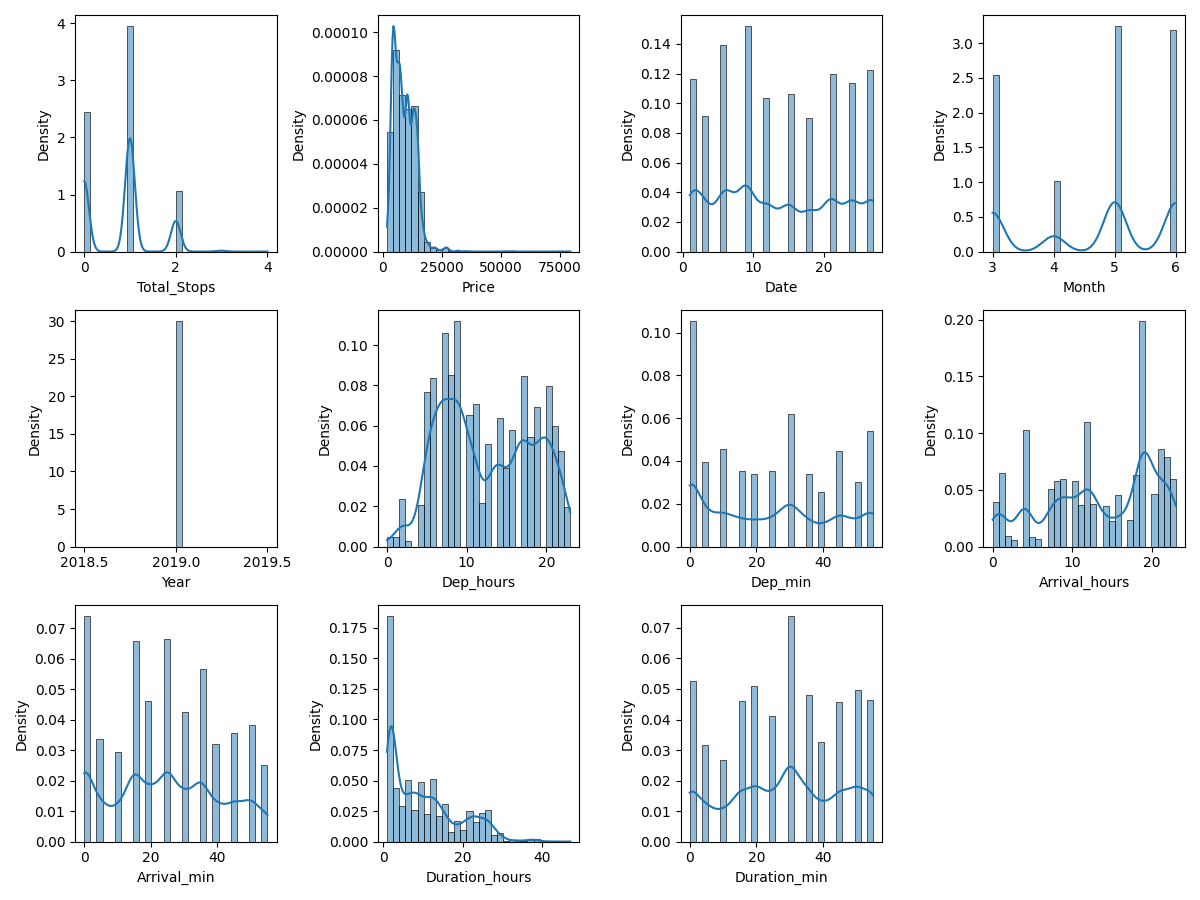
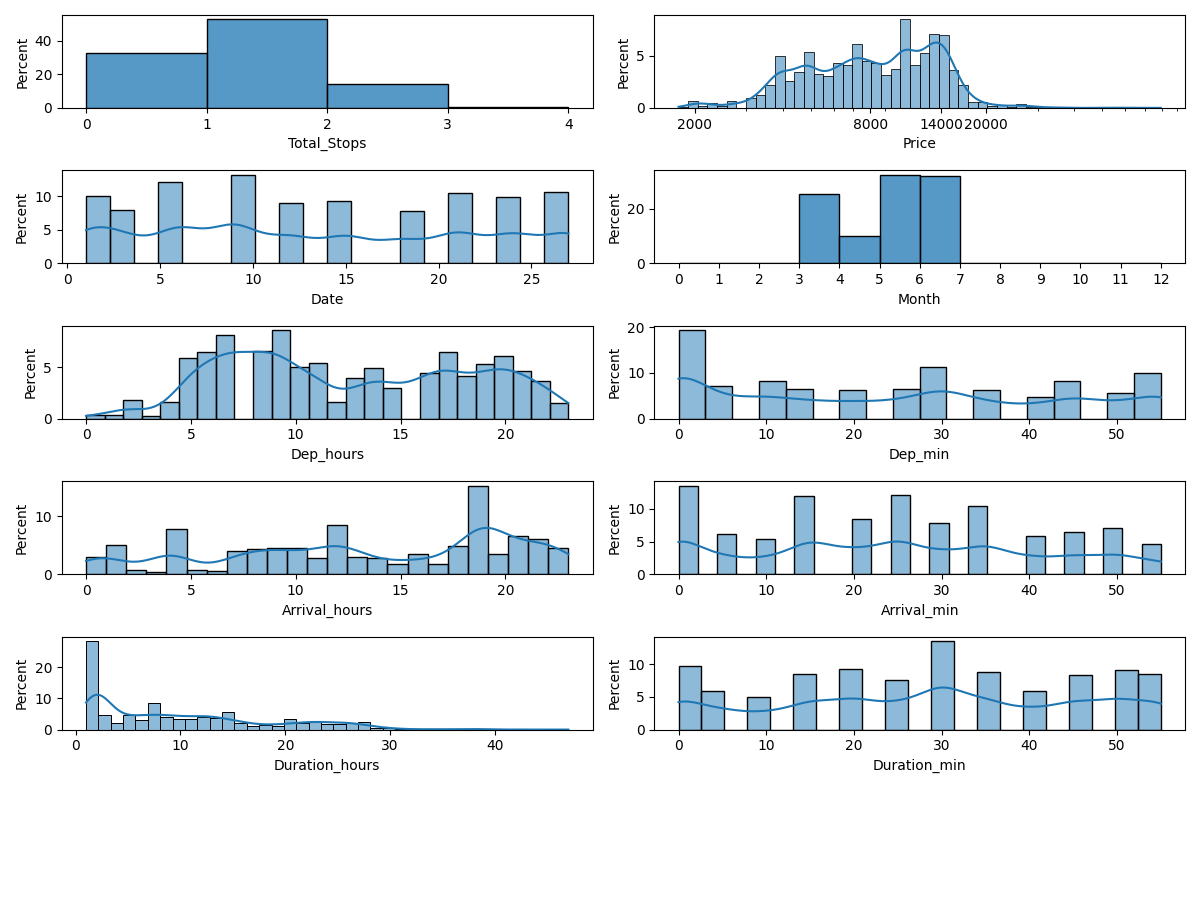
plot_flight_data function upgraded

diff --git a/main_files/data_processing.py b/main_files/data_processing.py
@@ -1,6 +1,7 @@
 from main_files import flight_data
 from main_files import plt
 from main_files import sns
+from main_files import np
 
 print(flight_data.info())
 print(flight_data.head()) #first few rows
@@ -8,16 +9,32 @@ print(flight_data.describe(include='all')) #some info about data
 print(flight_data.isnull().sum()) #no nulls, we're good
 
 def plot_flight_data():
-    flight_data_process_copy = flight_data.copy()
+    flight_data_plot_copy = flight_data.copy()
     # plot only columns which dtype is not 'Object'
-    columns_to_plot = [column for column in flight_data_process_copy.columns if
-                       flight_data_process_copy[column].dtypes != 'O']
+    columns_to_plot = [column for column in flight_data_plot_copy.columns if
+                       flight_data_plot_copy[column].dtypes != 'O' and column != 'Year']
 
-    figure, ax = plt.subplots(3, 4, figsize=(12, 9))
+    figure, ax = plt.subplots(6, 2, figsize=(12, 9))
     ax = ax.flatten()
 
     for i, column in enumerate(columns_to_plot):
-        sns.histplot(flight_data_process_copy[column], kde=True, stat='density', bins=30, ax=ax[i])
+        if column == 'Price':
+            sns.histplot(flight_data_plot_copy[column], kde=True, stat='percent', ax=ax[i], log_scale=True)
+            custom_ticks = np.arange(2000, 26000, 6000)
+            ax[i].set_xticks(custom_ticks)
+            ax[i].set_xticklabels([f'{int(label)}' for label in custom_ticks])
+        elif column == 'Total_Stops':
+            bins = np.arange(0, 5, 1)
+            sns.histplot(flight_data_plot_copy[column], kde=False, stat='percent', ax=ax[i], bins=bins)
+            ax[i].set_xticks(bins)
+            ax[i].set_xticklabels([f'{int(bin)}' for bin in bins])
+        elif column == 'Month':
+            bins = np.arange(0, 13, 1)
+            sns.histplot(flight_data_plot_copy[column], kde=False, stat='percent', ax=ax[i], bins=bins)
+            ax[i].set_xticks(bins)
+            ax[i].set_xticklabels([f'{int(bin)}' for bin in bins])
+        else:
+            sns.histplot(flight_data_plot_copy[column], kde=True, stat='percent', ax=ax[i])
 
     for i in range(len(columns_to_plot), 12):
         ax[i].axis('off')
